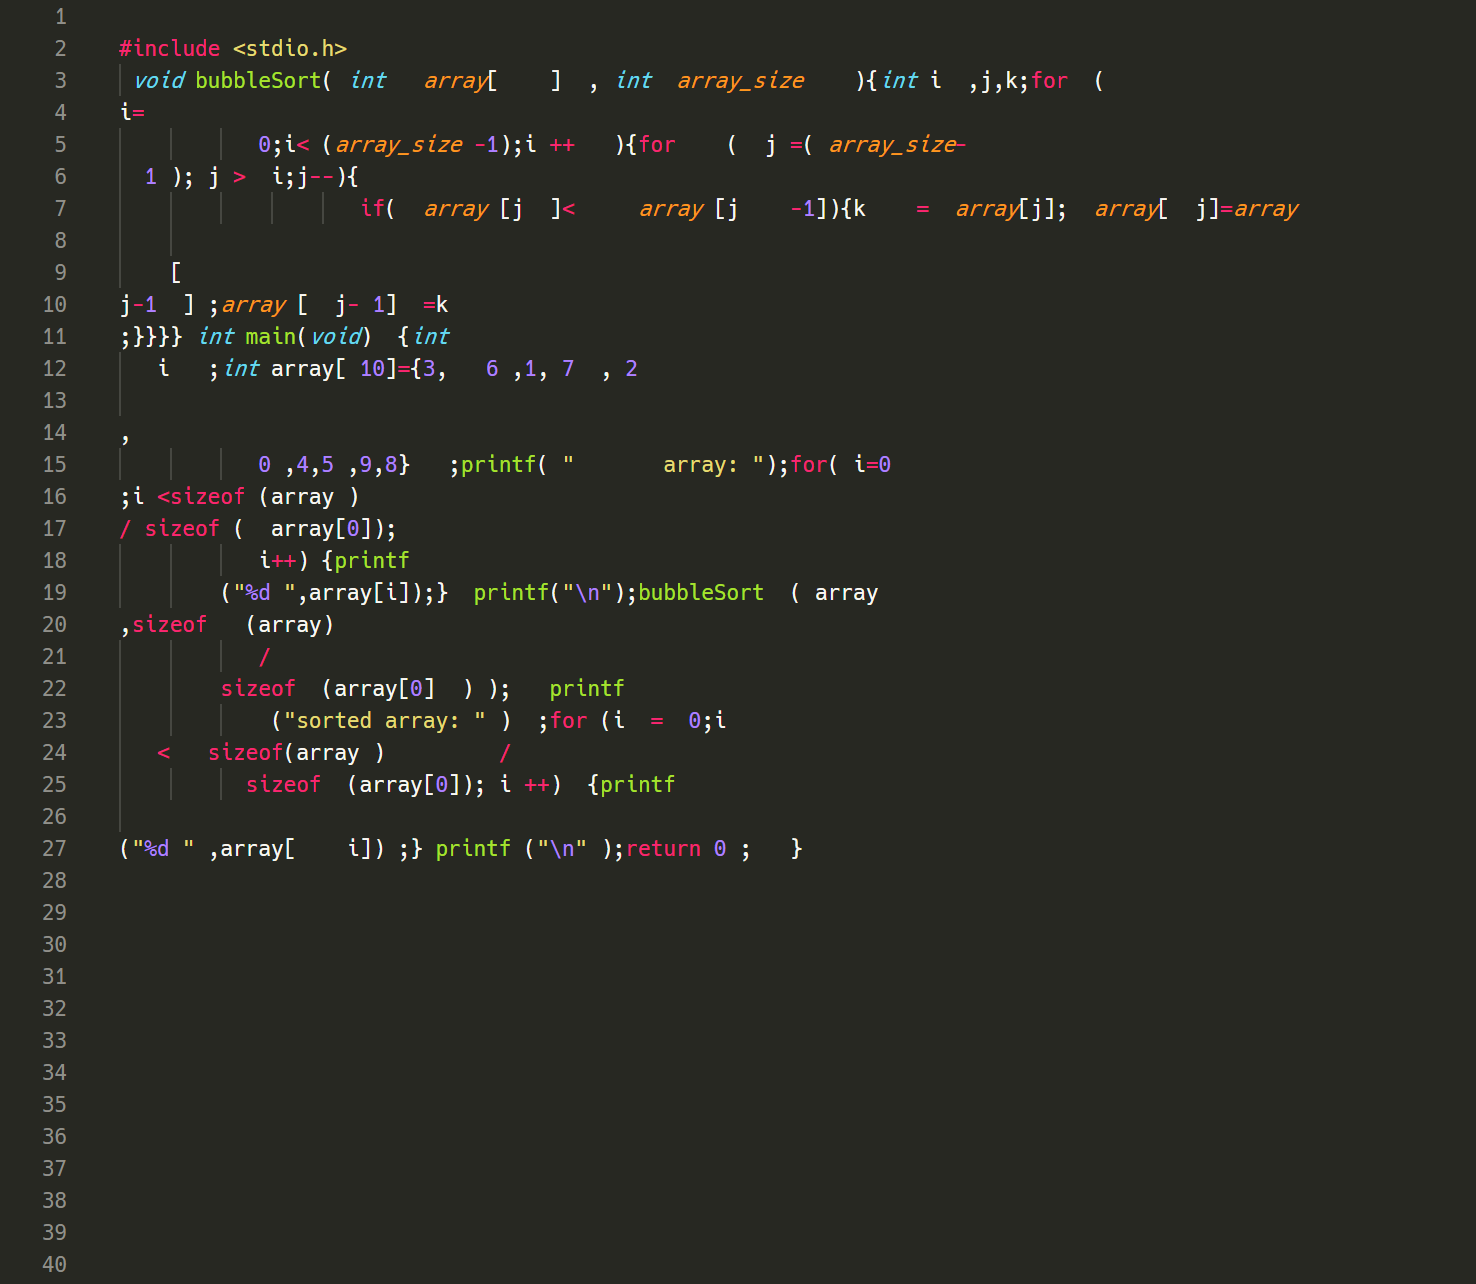
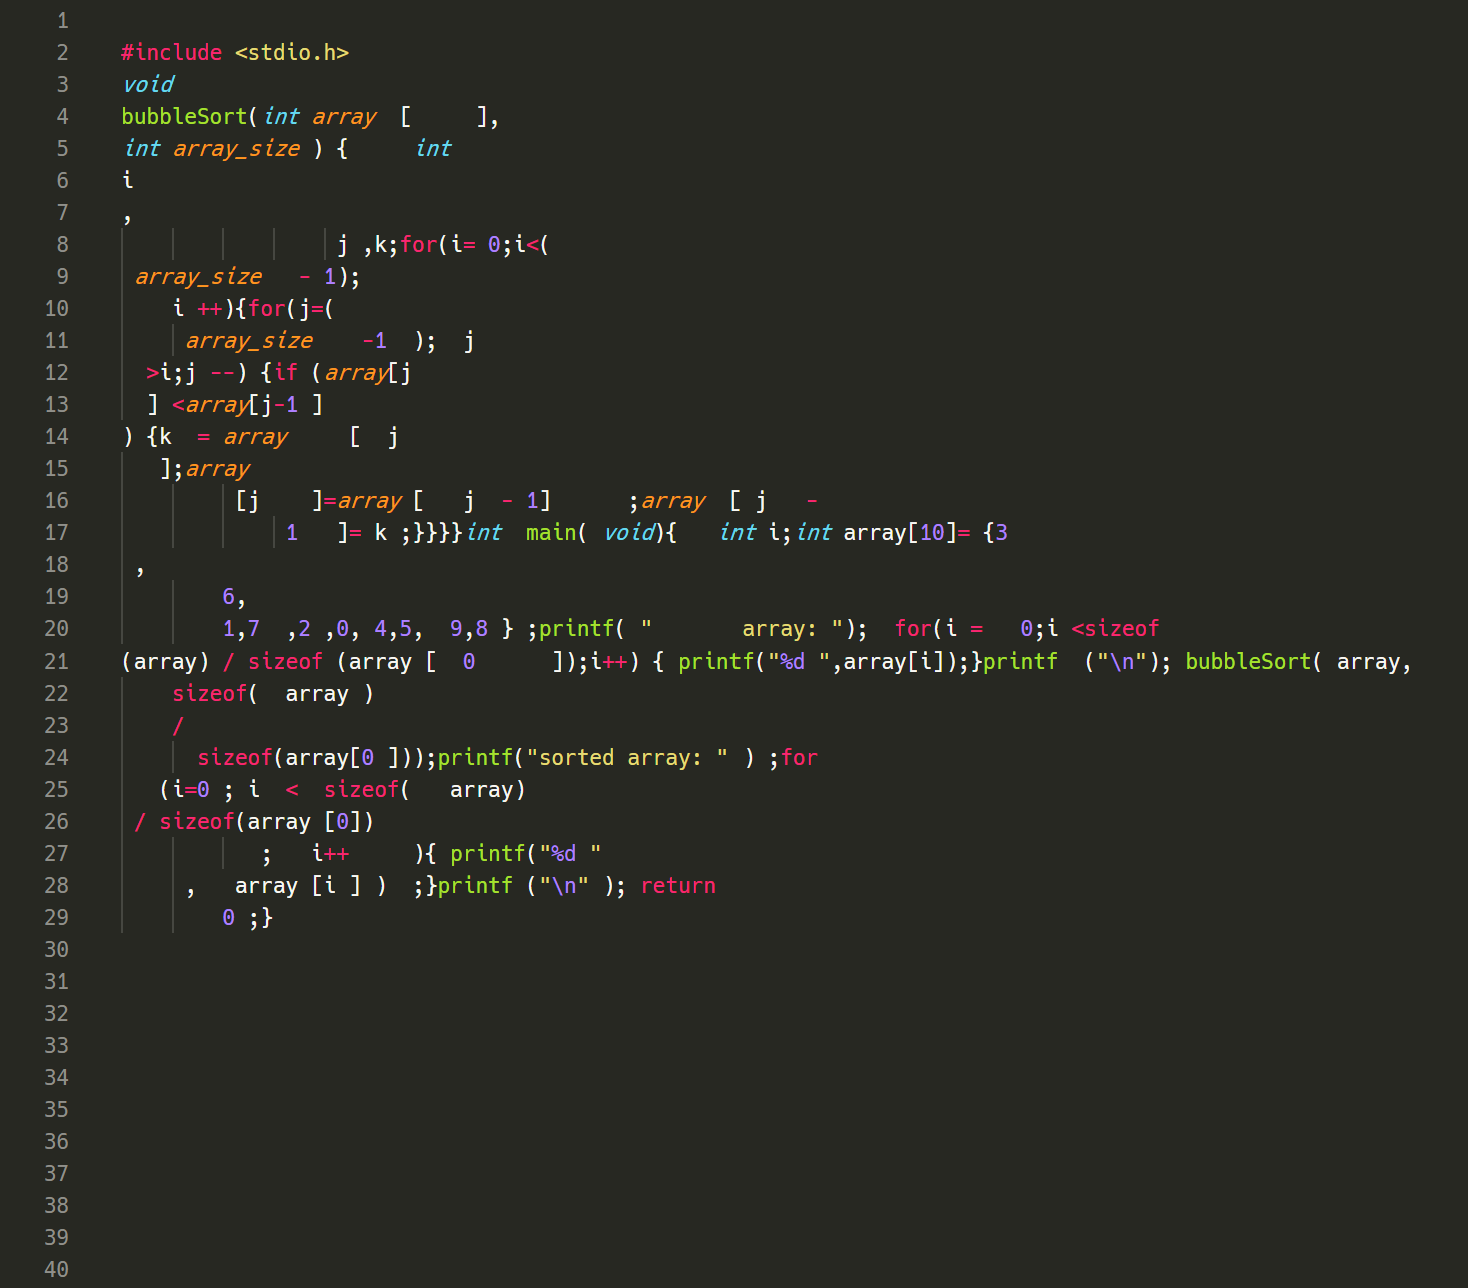
pre-release

diff --git a/README.md b/README.md
@@ -24,3 +24,7 @@ $ spoiler hoge.c
 * flex 2.6.4
 * bison 3.5.1
 * make 4.2.1
+
+斬新なc言語のフォーマッターをリリースしました。
+https://github.com/flat-map/Spoiler
+> 世の中にはソースコードの見た目を整える「フォーマッター」が数多く存在しますが、今回は逆に「ソースコードの改行や空白をめちゃくちゃにするツール」を作ってみました。嫌な上司に提出するときや「コードを一切整えない天才プログラマー」感を出したいときなどにぜひご活用ください。
